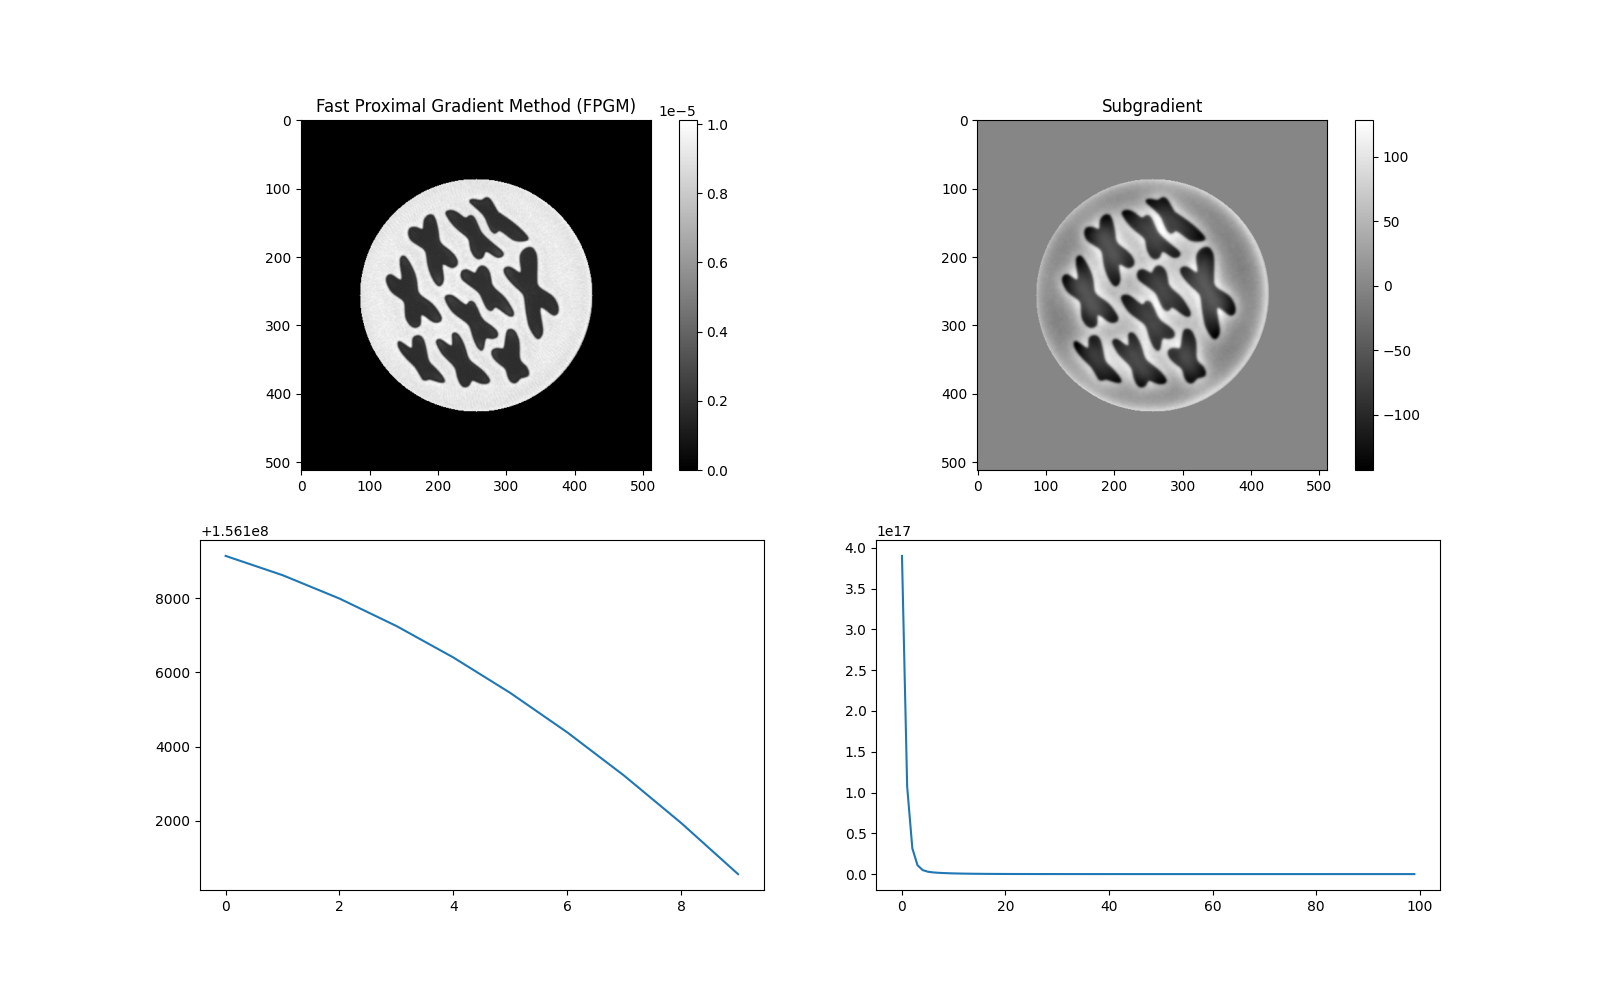
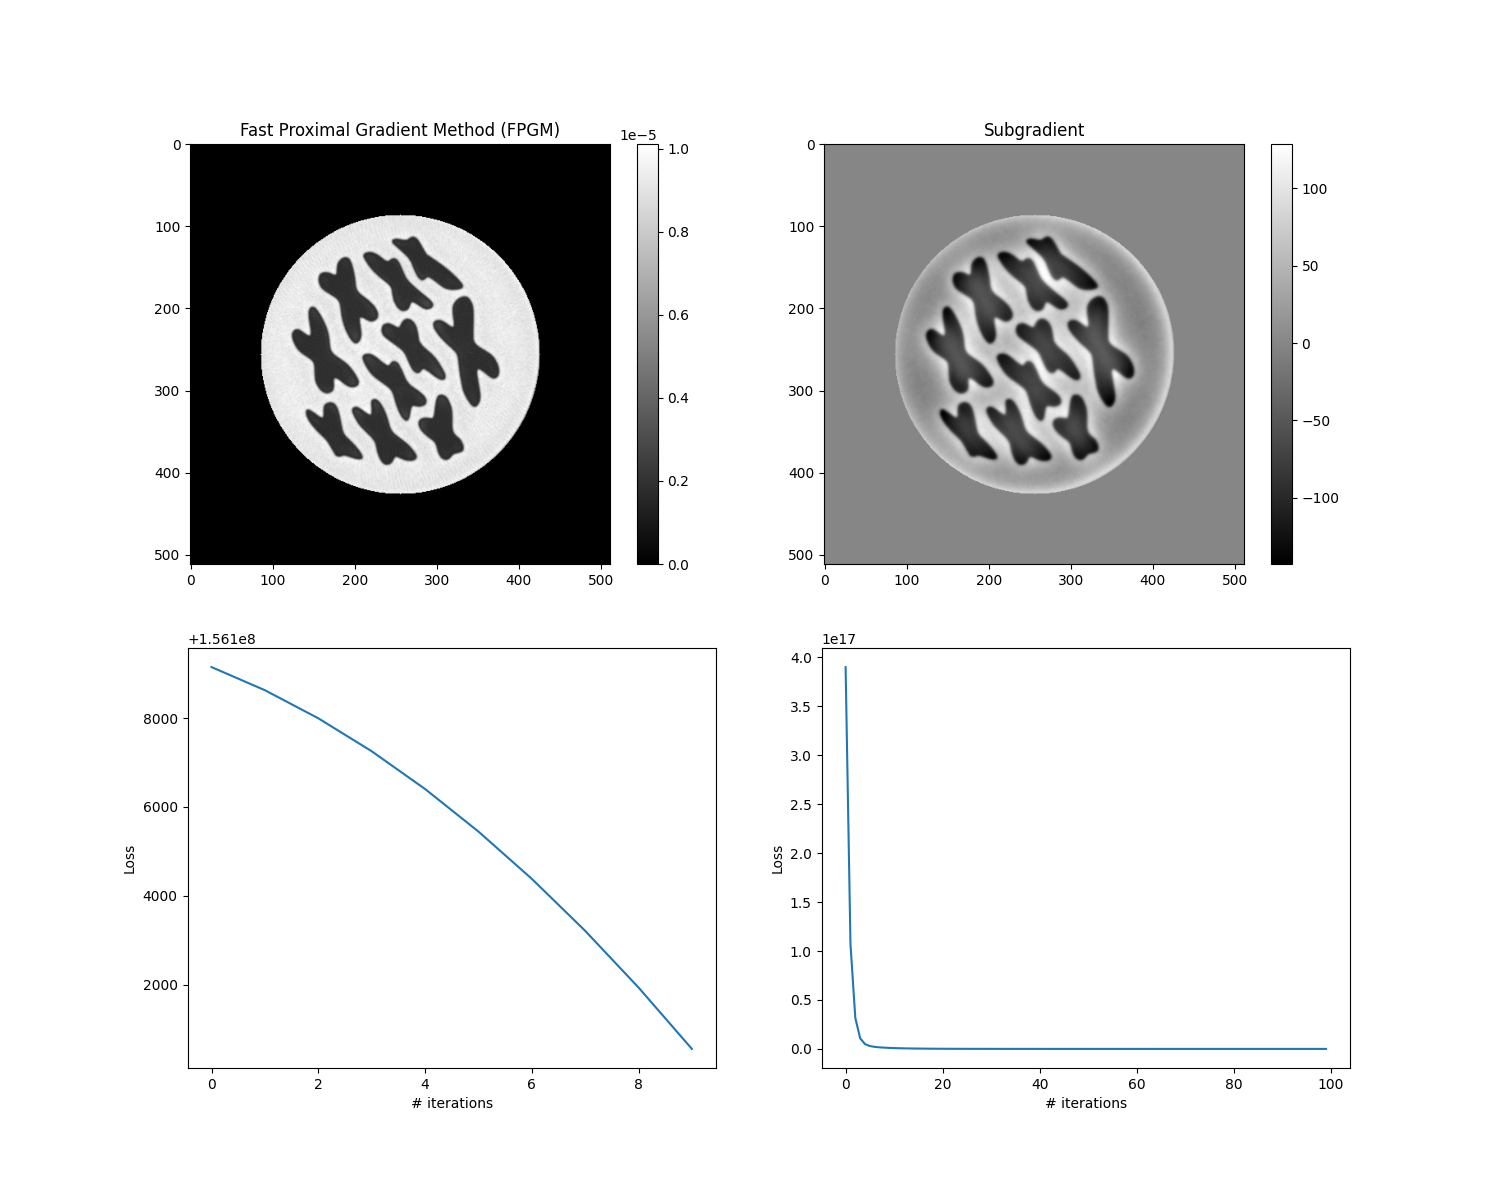
export challenge image

diff --git a/homework/hw08/experiment.py b/homework/hw08/experiment.py
@@ -91,7 +91,7 @@ def fpgm_subgradient():
     # apply masking
     sx = aomip.mask(sx)
     print(f"Subgradient complete, execution time = {time.time() - start_time:.2f}")
-    fig, axes = plt.subplots(2, 2, figsize=(16, 10))
+    fig, axes = plt.subplots(2, 2, figsize=(15, 12))
     # subgradient notebook output
     export = axes[0, 0].imshow(fx, cmap="gray")
     plt.colorbar(export, ax=axes[0, 0])
@@ -101,7 +101,11 @@ def fpgm_subgradient():
     axes[0, 1].set_title("Subgradient")
     # convergence
     axes[1, 0].plot(fhistory)
+    axes[1, 0].set_xlabel("# iterations")
+    axes[1, 0].set_ylabel("Loss")
     axes[1, 1].plot(shistory)
+    axes[1, 1].set_ylabel("Loss")
+    axes[1, 1].set_xlabel("# iterations")
     plt.savefig(f"{comparison_notebook_path}/comparison.png")
     # save tif output
     tifffile.imwrite(f"{comparison_tifffile_path}/fpgm.tif", fx)
@@ -112,11 +116,11 @@ def challenge():
     os.makedirs(challenge_path, exist_ok=True)
     fpgm = aomip.FPGM()
     fx, _ = fpgm.optimize(n=500)
-    plt.clf()
+    fig, ax = plt.subplots(1)
     plt.axis("off")
-    export = plt.imshow(fx, cmap="gray")
+    export = ax.imshow(fx, cmap="gray")
     plt.colorbar(export)
-    plt.title(f"Challenge Submission")
+    ax.set_title(f"Challenge Submission")
     # save challenge output
     plt.savefig(f"{challenge_path}/challenge.png")
     # save tifffile output
